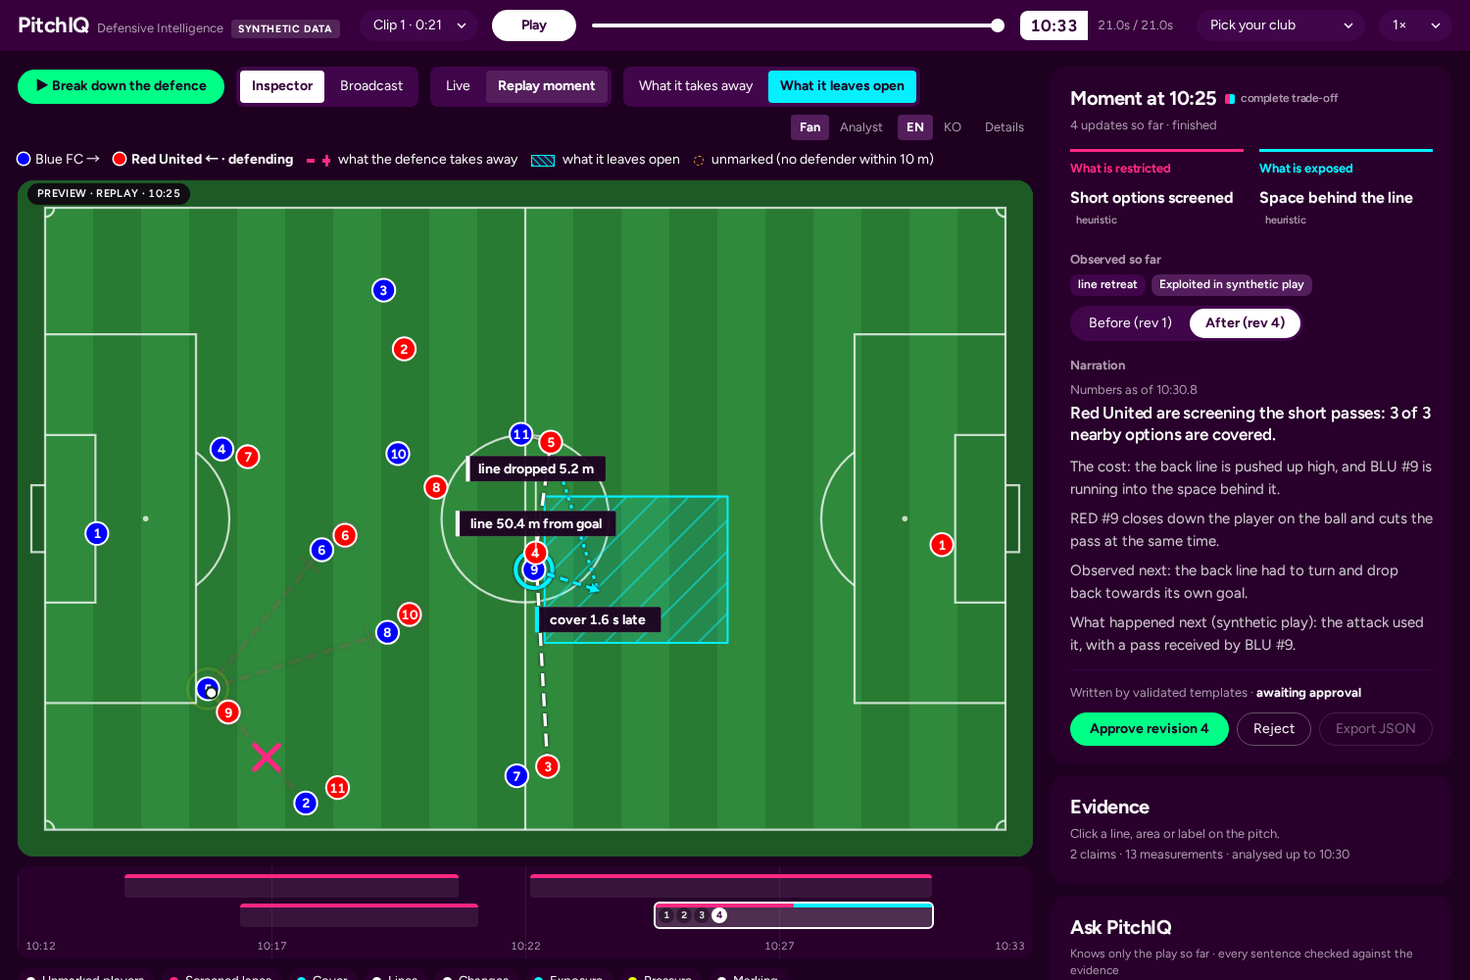
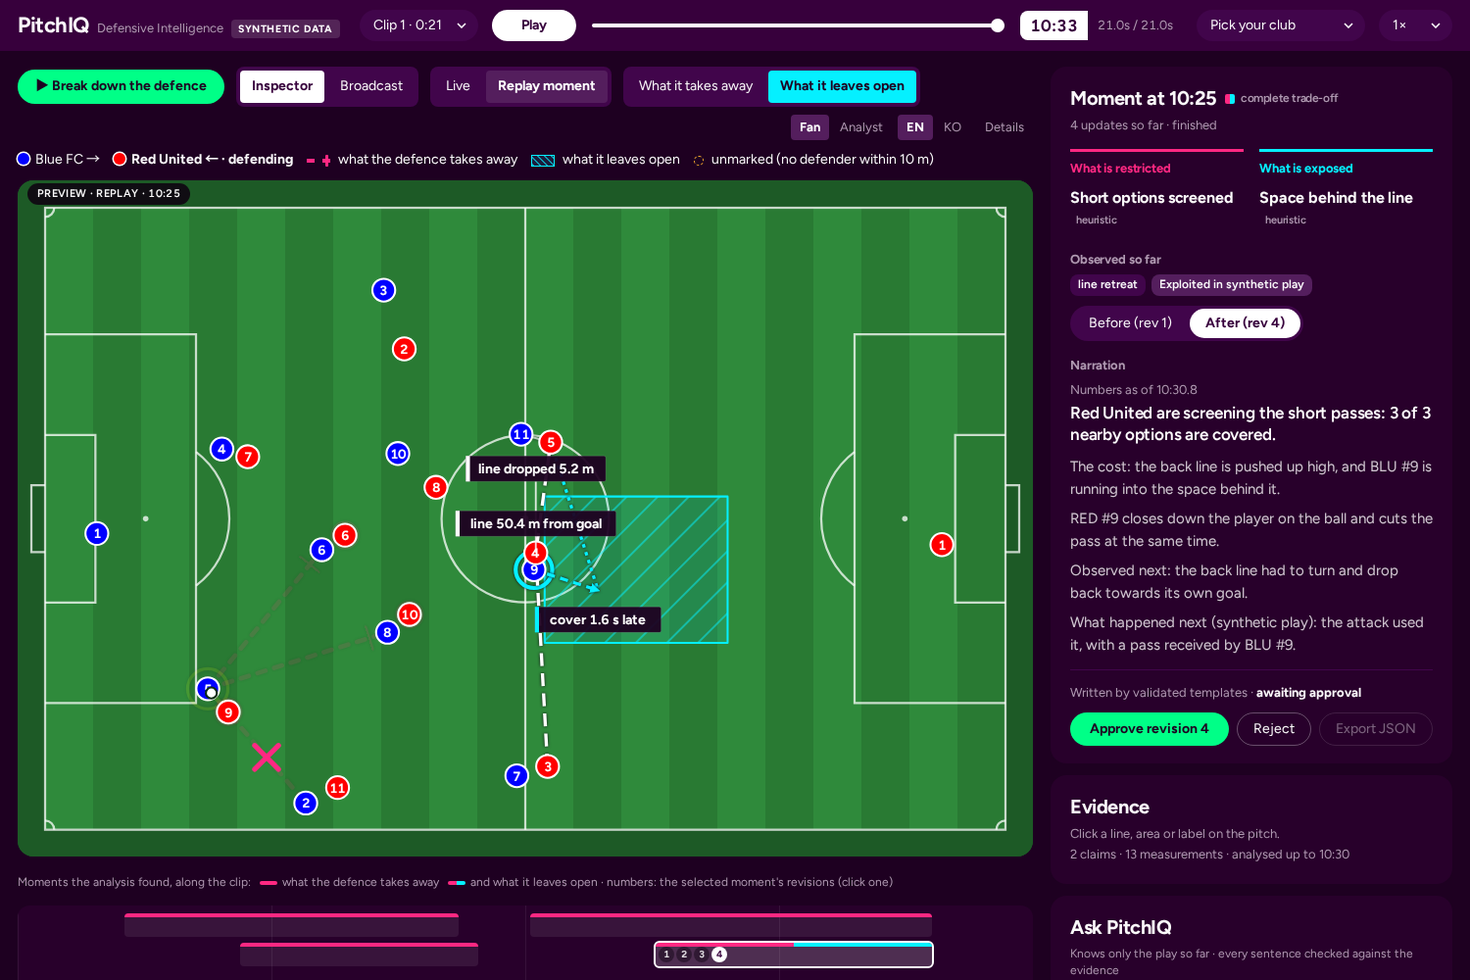
Breakdown step 2 draws a longer pass that is on (clip 1: BLU #5 to BLU #4, RED #7 only presses him); a key for the timeline

Changed region(s): [[0.0307, 0.868, 0.644, 1.0]]

diff --git a/frontend/src/App.tsx b/frontend/src/App.tsx
@@ -126,7 +126,9 @@ const BD_UI: Record<Lang, Record<string, string>> = {
         unmarked: "Also left unmarked: {p}.", unmarked_partial: "Left unmarked: {p}.",
         block: "{d} blocks the pass to {r}", block_many: "{d} blocks the passes to {r}", reach: "{d} can still get to the pass to {r}",
         block_pl: "{d} block the pass to {r}", block_pl_many: "{d} block the passes to {r}",
-        open_pass: "Not blocked: the pass to {r}.", open_passes: "Not blocked: the passes to {r}.", own_third: "In their own third they have {d} against {a}: the dangerous space is filled.",
+        open_pass: "Not blocked: the pass to {r}.", open_passes: "Not blocked: the passes to {r}.",
+        long_pass: "The longer pass to {r} is on: {d} can only press him as it arrives.", long_pass_free: "The longer pass to {r} is on.",
+        long_key: "Green arrow: a longer pass that is still on", own_third: "In their own third they have {d} against {a}: the dangerous space is filled.",
         forward: "{p}, furthest forward, has {n} defenders within 10 m.", and: " and ",
         other_run: "{r} is running in behind too: {c} goes with him.", other_run_late: "{r} is running in behind too, and nobody gets there in time." },
   ko: { intro: "이 수비는 무엇을 막고, 그 대가로 무엇을 내줄까?", go: "수비 전술 해부",
@@ -149,7 +151,9 @@ const BD_UI: Record<Lang, Record<string, string>> = {
         unmarked: "그 밖에 마크 없이 남은 선수: {p}.", unmarked_partial: "마크 없이 남은 선수: {p}.",
         block: "{d}: {r}로 가는 패스를 막음", block_many: "{d}: {r}로 가는 패스를 막음", reach: "{d}: {r}로 가는 패스에 닿을 수 있음",
         block_pl: "{d}: {r}로 가는 패스를 막음", block_pl_many: "{d}: {r}로 가는 패스를 막음",
-        open_pass: "막히지 않은 패스: {r}.", open_passes: "막히지 않은 패스: {r}.", own_third: "자기 진영 3분의 1 안에서 {d} 대 {a}: 위험한 공간이 채워져 있습니다.",
+        open_pass: "막히지 않은 패스: {r}.", open_passes: "막히지 않은 패스: {r}.",
+        long_pass: "{r}에게 가는 긴 패스는 열려 있습니다. 공이 도착하면 {d} 선수가 압박할 뿐입니다.", long_pass_free: "{r}에게 가는 긴 패스는 열려 있습니다.",
+        long_key: "초록 화살표: 아직 열려 있는 긴 패스", own_third: "자기 진영 3분의 1 안에서 {d} 대 {a}: 위험한 공간이 채워져 있습니다.",
         forward: "가장 앞선 {p} 주위 10 m 안에 수비 {n}명.", and: ", ",
         other_run: "{r} 선수도 뒷공간으로 뜁니다. {c} 선수가 따라갑니다.", other_run_late: "{r} 선수도 뒷공간으로 뛰고, 제때 따라가는 수비가 없습니다." },
 };
@@ -589,7 +593,11 @@ export function App() {
   const claimLabel = (c: string) => <>{CLAIM_TEXT[c]}{heuristicCodes.has(c) && <> <small>heuristic</small></>}</>;
   const highlight = useMemo(() => {
     const s = new Set<string>();
-    if (bdCur) { for (const p of [...bdCur.player_ids, ...(bdCur.marks ?? []).flat()]) s.add(p); return s; }
+    if (bdCur) {
+      for (const p of [...bdCur.player_ids, ...(bdCur.marks ?? []).flat(),
+        ...(bdCur.long_passes ?? []).flatMap((lp) => [lp.receiver_id, ...lp.pressed_by])]) s.add(p);
+      return s;
+    }
     if (selEl) for (const cid of selEl.claim_ids) for (const p of claimById[cid]?.player_ids ?? []) s.add(p);
     return s;
   }, [selEl, claimById, bdCur]);
@@ -750,6 +758,7 @@ export function App() {
               : shownFrame && <GlidingPitch glideMs={1000 / (5 * speed)} glide={playing && !replayMode && !bd}
                   frame={shownFrame} overlay={overlaySnap} labels={overlay?.label_text} hiddenLayers={shownHidden}
                   ballPath={bdCur?.key === "what_happened" ? bdCur.ball_path : undefined} tags={bdTags} marks={bdCur?.marks}
+                  passTo={bdCur?.key === "takes_away" ? bdCur.long_passes?.map((lp) => lp.receiver_id) : undefined}
                   freeIds={bdCur?.key === "leaves_open" ? bdCur.unmarked : undefined}
                   attackDir={(id) => teams.find((tm: any) => tm.team_id === id)?.attack_direction ?? 1}
                   selected={surface === "inspector_preview" ? selEl?.element_id : undefined}
@@ -763,6 +772,8 @@ export function App() {
             <div className="caption">{overlay.on_air.map((t, i) => <p key={i}>{t}</p>)}</div>}
           {surface === "broadcast" && approvedRev !== null && insight && insight.insight.revision !== approvedRev &&
             <p className="air-note">On air: approved revision {approvedRev}. Revision {insight.insight.revision} is newer and waits for approval in Inspector.</p>}
+          {!bd && <p className="tl-key">Moments the analysis found, along the clip:<i className="tl-sw" />what the defence
+            takes away<i className="tl-sw both" />and what it leaves open · numbers: the selected moment&apos;s revisions (click one)</p>}
           {!bd && <Timeline episodes={onlyFollowed && followed ? episodes.filter((e) => e.player_ids?.includes(followed)) : episodes}
             empty={onlyFollowed && followed ? `No moments involving #${jersey(followed)} yet` : "No moments yet"}
             myClub={myClub} t0={t0} t1={t1} clock={clock} selected={selEp} selRev={selRev}
@@ -884,6 +895,8 @@ function BreakdownPanel({ bd, step, lang, keys, texts, insight, approvedRev, sur
     })(),
     (cur?.open_passes ?? []).length > 0 && (cur!.open_passes!.length > 1 ? ui.open_passes : ui.open_pass)
       .replace("{r}", cur!.open_passes!.map(playerName).join(ui.and)),
+    ...(cur?.long_passes ?? []).map((p) => (p.pressed_by.length ? ui.long_pass : ui.long_pass_free)
+      .replace("{r}", playerName(p.receiver_id)).replace("{d}", p.pressed_by.map(playerName).join(ui.and))),
     cur?.own_third && ui.own_third.replace("{d}", String(cur.own_third.defenders)).replace("{a}", String(cur.own_third.attackers)),
     cur?.own_third && cur.own_third.near_forward >= 2 && ui.forward.replace("{p}", playerName(cur.own_third.forward_id))
       .replace("{n}", String(cur.own_third.near_forward)),
@@ -913,9 +926,10 @@ function BreakdownPanel({ bd, step, lang, keys, texts, insight, approvedRev, sur
           h.player_id.includes("_") ? playerName(h.player_id) : "")}</p>)}
         {!cur && latestRev != null && asOf != null && <p className="meta">{ui.onairNote.replace("{rev}", String(latestRev))
           .replace("{t}", matchClockTenths(asOf))}</p>}
-        {(keys.length > 0 || (cur?.ball_path?.length ?? 0) > 1 || !!cur?.marks?.length) && <ul className="bd-key">
+        {(keys.length > 0 || (cur?.ball_path?.length ?? 0) > 1 || !!cur?.marks?.length || !!cur?.long_passes?.length) && <ul className="bd-key">
           {cur?.key === "what_happened" && (cur.ball_path?.length ?? 0) > 1 && <li><i className="sw ball_path" />{ui.ball}</li>}
           {!!cur?.marks?.length && <li><i className="sw bd_mark" />{ui.marks}</li>}
+          {!!cur?.long_passes?.length && <li><i className="sw lane_open" />{ui.long_key}</li>}
           {keys.map((k) => <li key={k}><i className={`sw ${k}`} />{BD_KEY[k][lang]}</li>)}
         </ul>}
         {!cur && !insight && <p className="meta">{ui.waiting}</p>}

diff --git a/frontend/src/Pitch.tsx b/frontend/src/Pitch.tsx
@@ -23,6 +23,7 @@ type Props = {
   ballPath?: number[][];  // where the ball went (world metres), drawn as a white arrow
   tags?: Record<string, { text: string; role: string }>;  // a tag over the players a step is about (presser, runner...)
   marks?: string[][];  // [defender, attacker]: who follows whom, drawn as a white tether
+  passTo?: string[];  // receivers of longer passes that are on (breakdown step 2), drawn from the ball as green arrows
 };
 // An unmarked player: an outfield player of the team on the ball with real room, no opponent within FREE_M, and no
 // defender following him (a marking pair the analysis drew). Measured on the frame drawn, with hysteresis: a player
@@ -162,7 +163,7 @@ function Element({ el, pos, label, place, selected, onSelect }: {
 }
 
 export function Pitch({ frame, overlay, labels = {}, hiddenLayers, selected, onSelect, highlight, teamColor, jersey, followed, onPlayer,
-  quietLabels, ballPath, tags, marks, showFree, freeIds, attackDir }: Props) {
+  quietLabels, ballPath, tags, marks, passTo, showFree, freeIds, attackDir }: Props) {
   const pos: Record<string, XY> = {};
   for (const p of frame.players) pos[p.player_id] = p.position;
   const els = (overlay?.elements ?? []).filter((e) => !hiddenLayers.has(e.layer));
@@ -249,6 +250,13 @@ export function Pitch({ frame, overlay, labels = {}, hiddenLayers, selected, onS
       {marks?.map(([d, a]) => {
         const p = pos[d], q = pos[a];
         return p && q ? <line key={`mk-${d}-${a}`} className="bd-mark" x1={sx(p)} y1={sy(p)} x2={sx(q)} y2={sy(q)} /> : null;
+      })}
+      {passTo?.map((r) => {  // the arrow stops at the receiver's disc
+        const q = pos[r];
+        if (!q) return null;
+        const dx = sx(q) - sx(ball), dy = sy(q) - sy(ball), k = Math.max(1 - (PLAYER_R + 0.4) / (Math.hypot(dx, dy) || 1), 0);
+        return <line key={`lp-${r}`} className="lane_open bd-pass" x1={sx(ball)} y1={sy(ball)} x2={sx(ball) + dx * k}
+          y2={sy(ball) + dy * k} markerEnd="url(#arrow-lane_open)" />;
       })}
       {receiver && receiveAt && <g className="receive-g">
         <line className="receiver-run" x1={sx(receiver.position)} y1={sy(receiver.position)} x2={receiveAt[0]} y2={68 - receiveAt[1]} />

diff --git a/frontend/src/styles.css b/frontend/src/styles.css
@@ -225,6 +225,10 @@ g.ov.sel .label-bg { stroke: #fff; stroke-width: 0.15; }
 .rev { height: 16px; min-width: 16px; padding: 0 4px; font-size: 10px; font-weight: 700; border: 0; border-radius: 999px;
   background: rgba(14, 0, 16, 0.45); color: rgba(255, 255, 255, 0.85); }
 .rev.on { background: #fff; color: var(--panel-2); }
+.tl-key { margin: 8px 0 4px; font-size: 12px; color: var(--muted); }
+.tl-sw { display: inline-block; width: 18px; height: 4px; border-radius: 2px; vertical-align: middle; margin: 0 5px 0 9px;
+  background: var(--pink); }
+.tl-sw.both { background: linear-gradient(90deg, var(--pink) 0 50%, var(--cyan) 50% 100%); }
 .now { position: absolute; top: 0; bottom: 0; width: 2px; background: #fff; }
 .now::before { content: ""; position: absolute; top: 0; left: -4px; border: 5px solid transparent; border-top-color: #fff; border-bottom: 0; }
 
@@ -356,6 +360,7 @@ button.primary { background: #fff; color: var(--panel-2); border: 0; font-weight
 .ball-path-start { fill: #fff; }
 .arrowhead.ball_path { fill: #fff; }
 .bd-mark { stroke: rgba(255, 255, 255, 0.38); stroke-width: 3.6; stroke-linecap: round; }  /* a band around each marking pair */
+.bd-pass { stroke-width: 0.5; }  /* a longer pass that is on (step 2) */
 .sw.bd_mark { border-top: 7px solid rgba(255, 255, 255, 0.5); border-radius: 4px; }
 
 /* the ball's receiver: where he takes it, and his run there */

diff --git a/frontend/src/api.ts b/frontend/src/api.ts
@@ -105,7 +105,8 @@ export type BreakdownStep = {
   // the press, when the narration has no sentence about it: who has the ball and the nearest defender (measured)
   press_facts?: { carrier_id: string; defender_id: string; distance_m: number } | null;
   unmarked?: string[]; blocks?: { defender_ids: string[]; receiver_id: string; status: "screened" | "reachable" }[];
-  open_passes?: string[]; own_third?: { defenders: number; attackers: number; forward_id: string; near_forward: number } | null;  // what it leaves open: the attacking team's unmarked players on the step's frame (measured)
+  open_passes?: string[]; long_passes?: { receiver_id: string; length_m: number; pressed_by: string[] }[];  // longer passes that are on, with the defenders pressing the receiver
+  own_third?: { defenders: number; attackers: number; forward_id: string; near_forward: number } | null;  // what it leaves open: the attacking team's unmarked players on the step's frame (measured)
   other_runs?: { runner_id: string; cover_id: string | null; in_time: boolean }[];  // other runs in behind (cover timed)
 };
 export type Breakdown = { episode_id: string; analysis_status: string; outcome: string; language: string; steps: BreakdownStep[] };

diff --git a/backend/app/replay/breakdown.py b/backend/app/replay/breakdown.py
@@ -15,7 +15,10 @@ model, and a step that the analysis has not reached yet says so instead of guess
 
 from __future__ import annotations
 
+import numpy as np
+
 from ..agents.fallback import analyst_plan, producer_plan
+from ..analytics.config import load_config
 from ..contracts import EvidencePacket
 from ..narrative.render import render_sentence
 from ..overlay.builder import key_state
@@ -44,6 +47,10 @@ UNMARKED_M, UNMARKED_REACH_M, UNMARKED_MAX = 10.0, 60.0, 6
 # attacker nobody has, within LOOSE_MARK_M (a zonal player standing with his man)
 LOOSE_MARK_M = 8.0
 OWN_THIRD_M = 35.0  # the defending team's own third, for the numbers in step 2
+# step 2's longer passes (the lane model's short options stop at lanes.max_length_m): a forward or square pass of up to
+# LONG_PASS_MAX_M is on when no defender gets to it; a defender within PRESSES_RECEIVER_M of the receiver and level with
+# him (at most LEVEL_M nearer the ball along the pass) presses him as he takes it, he does not block the pass
+LONG_PASS_MAX_M, PRESSES_RECEIVER_M, LEVEL_M = 35.0, 5.0, 2.5
 
 
 def _sentences(pk: EvidencePacket, language: str, clip: Clip, audience: str = "fan") -> list[tuple[str, str | None, str]]:
@@ -240,6 +247,46 @@ def _blocks(pk: EvidencePacket) -> dict:
     return {"blocks": blocks, "open_passes": [ln.receiver_id for ln in state.lanes if ln.availability == "open"]}
 
 
+def _long_passes(clip: Clip, pk: EvidencePacket) -> list[dict]:
+    """Step 2's longer passes from the man on the ball that are on (at most two, shortest first), each with the
+    defenders pressing its receiver. The lane model's kinematics (ball and defender speed, reaction, open margin) for
+    every other defender, on the step's frame, onside receivers only. From positions; no claim reads it."""
+    c = load_config().lanes
+    frame = _frame_of(clip, pk)
+    defending = pk.episode.defending_team_id
+    carrier = next((p for p in frame.players if p.player_id == frame.ball.owner_id), None)
+    if carrier is None or carrier.team_id == defending:
+        return []
+    a = clip.meta.attack_direction(carrier.team_id)
+    fwd = lambda p: p.position.x_m if a == 1 else 105.0 - p.position.x_m  # noqa: E731
+    xy = lambda p: np.array([p.position.x_m, p.position.y_m])  # noqa: E731
+    defs = [p for p in frame.players if p.team_id == defending]
+    d_xy = np.array([xy(p) for p in defs])
+    offside = sorted((fwd(p) for p in defs), reverse=True)[1] if len(defs) > 1 else 105.0
+    short = {ln.receiver_id for ln in key_state(pk).lanes}
+    ball = np.array([frame.ball.position.x_m, frame.ball.position.y_m])
+    out = []
+    for r in frame.players:
+        if (r.team_id != carrier.team_id or r.is_goalkeeper or r.player_id in (carrier.player_id, *short)
+                or fwd(r) < fwd(carrier) - c.max_backward_m or fwd(r) > max(offside, fwd(carrier)) + c.offside_tolerance_m):
+            continue
+        seg = xy(r) - ball
+        L = float(np.linalg.norm(seg))
+        if not c.max_length_m < L <= LONG_PASS_MAX_M:
+            continue
+        to_r = np.linalg.norm(d_xy - xy(r), axis=1)
+        presses = (to_r <= PRESSES_RECEIVER_M) & ((d_xy - ball) @ (seg / L) >= L - LEVEL_M)
+        s = np.arange(c.end_exclusion_m, L - c.end_exclusion_m + 1e-9, c.sample_step_m)
+        q = ball + np.outer(s / L, seg)
+        margin = c.reaction_s + np.linalg.norm(d_xy[~presses, None, :] - q[None, :, :], axis=-1) / c.defender_speed_mps \
+            - (s / c.ball_speed_mps)[None, :]
+        if margin.size and margin.min() < c.open_margin_s:
+            continue
+        out.append({"receiver_id": r.player_id, "length_m": round(L, 1),
+                    "pressed_by": [defs[i].player_id for i in np.argsort(to_r) if presses[i]][:2]})
+    return sorted(out, key=lambda x: x["length_m"])[:2]
+
+
 def _own_third(clip: Clip, pk: EvidencePacket) -> dict | None:
     """Numbers in the defending team's own third (outfield players), and the attacker furthest forward with the
     defenders within 10 m of him, when the defence fills that third (at least two more)."""
@@ -314,7 +361,7 @@ def breakdown(revs: list[EvidencePacket], clip: Clip, language: str, now_s: floa
                        [p for c in restricted for p in c.player_ids],
                        [t for k, cid, t in sents if cid in r_press.episode.restricted_claim_ids
                         and not any(m in k for m in PRESS_TEMPLATES)], **_blocks(r_press),
-                       own_third=_own_third(clip, r_press)))
+                       long_passes=_long_passes(clip, r_press), own_third=_own_third(clip, r_press)))
 
     # 3. what it leaves open (or that nothing open is supported yet)
     if r_open is not None:

diff --git a/backend/tests/test_v2_narrative_api.py b/backend/tests/test_v2_narrative_api.py
@@ -532,6 +532,8 @@ def test_the_breakdown_tells_the_moment_in_four_steps_from_the_evidence(client):
     assert any(b["receiver_id"] == "blue_02" and b["defender_ids"][0] == "red_09" and b["status"] == "screened"
                for b in takes["blocks"])
     assert "short passes" in takes["sentences"][0] and "screened_lanes" in takes["layers"]
+    # a longer pass that is on (display only): the square pass to BLU #4, with RED #7 only pressing him as he takes it
+    assert [(p["receiver_id"], p["pressed_by"]) for p in takes["long_passes"]] == [("blue_04", ["red_07"])]
     assert "exposure" in opens["layers"] and "BLU #9" in opens["sentences"][0] and opens["roles"]["blue_09"] == "runner"
     assert happened["revision"] > opens["revision"] and "received by BLU #9" in happened["sentences"][-1]
     assert happened["roles"] == {"blue_05": "passer", "blue_09": "receiver"}

diff --git a/evaluation/walkthrough/sweep.py b/evaluation/walkthrough/sweep.py
@@ -18,7 +18,7 @@ from playwright.sync_api import sync_playwright
 
 ROOT = Path(__file__).resolve().parents[2]
 OUT = Path(sys.argv[1])
-BASE = sys.argv[2].rstrip("/") if len(sys.argv) > 2 else None
+BASE = (sys.argv[2].rstrip("/") or None) if len(sys.argv) > 2 else None  # "" = start a local offline server
 CLIPS = sys.argv[3].split(",") if len(sys.argv) > 3 else [f"clip_{i:03d}" for i in (1, 2, 3, 4, 5, 6, 8, 9)]  # the clips the desk offers
 OUT.mkdir(parents=True, exist_ok=True)
 

diff --git a/README.md b/README.md
@@ -73,7 +73,7 @@ Most controls have tests, named in the table (all in `backend/tests/`).
 | **Ingest** | Replays tracking for 22 players and the ball at 5 Hz, with timestamped events, as a stream. An event reaches the analysis only after its `available_at_s` time. Every frame is validated against typed contracts (schema 2.0). | `backend/app/contracts/`, `backend/app/replay/` |
 | **Interpret** | Code analyses a trailing window: phase, defensive lines (it abstains when unsure), man-oriented marking, pressure, ground-pass lane access with approximate offside, cover arrival including the goalkeeper, and central player counts. The results become trade-off episodes that keep restricted and exposed claims apart. The attack's response, the defence's adjustment and the outcome are added as new revisions. | `backend/app/analytics/` |
 | **Explain** | The Analyst and Producer agents choose which claims to tell, in what order, with which caveats, and which validated sentences each audience gets. Ask PitchIQ answers viewer questions. Code fills in every number from the evidence packet. | `backend/app/agents/`, `backend/app/narrative/` |
-| **Render** | SVG overlays on the pitch: screened lanes, exposure zones, cover timing, line height, local player counts and pressure. Each element links to its players, frames and metrics. Also: Before/After views, an episode timeline, a broadcast view with a caption bar, and JSON export of an approved moment. **Break down the defence** walks through one moment in four steps (the press and who follows whom, what it takes away, what it leaves open, what happened, with the ball's path from the frames), each on the revision that first had it (what it takes away and what it leaves open on the same moment when the restriction still holds then), then puts it on air after approval. When the analysis recorded no outcome, the last step shows the next pass or shot the replay saw (received, intercepted or stopped) as an observation, or says that the clip ends first. A press step without a sentence about the press gives the player on the ball and the nearest defender, measured on its frame. Its sentences are the code-rendered ones; no model writes them. The pitch rings the unmarked players of the team on the ball (no defender within 10 m and none following him; the six with the most room within 60 m of the ball), and the "what it leaves open" step lists them; on air, the sentences name players and movements but no distances (the numbers stay in the analyst view and the pitch labels). It glides between the 5 Hz frames while playing. | `backend/app/overlay/`, `backend/app/replay/breakdown.py`, `frontend/src/` |
+| **Render** | SVG overlays on the pitch: screened lanes, exposure zones, cover timing, line height, local player counts and pressure. Each element links to its players, frames and metrics. Also: Before/After views, an episode timeline, a broadcast view with a caption bar, and JSON export of an approved moment. **Break down the defence** walks through one moment in four steps (the press and who follows whom, what it takes away, what it leaves open, what happened, with the ball's path from the frames), each on the revision that first had it (what it takes away and what it leaves open on the same moment when the restriction still holds then), then puts it on air after approval. When the analysis recorded no outcome, the last step shows the next pass or shot the replay saw (received, intercepted or stopped) as an observation, or says that the clip ends first. A press step without a sentence about the press gives the player on the ball and the nearest defender, measured on its frame. Step 2 also draws a longer pass (over the 25 m of a short option, up to 35 m) that is still on as a green arrow, naming the defender who can only press its receiver as it arrives (display only; no claim uses it). Its sentences are the code-rendered ones; no model writes them. The pitch rings the unmarked players of the team on the ball (no defender within 10 m and none following him; the six with the most room within 60 m of the ball), and the "what it leaves open" step lists them; on air, the sentences name players and movements but no distances (the numbers stay in the analyst view and the pitch labels). It glides between the 5 Hz frames while playing. | `backend/app/overlay/`, `backend/app/replay/breakdown.py`, `frontend/src/` |
 | **Personalize** | Fan or Analyst depth, in English or Korean, built from the same evidence (four validated variants per insight). **My club** marks every moment as your club defending or attacking. **Follow a player**: click any player for a ring and their measured speed (a sprint at 7 m/s or more) and filter the timeline to the moments whose evidence names them. Choices stay in the browser. | `frontend/src/App.tsx`, `frontend/src/Pitch.tsx`, `backend/app/narrative/registry.py` |
 
 Who does what:

diff --git a/docs/evaluation.md b/docs/evaluation.md
@@ -461,3 +461,16 @@ Checks on this build (offline): `make test` 278 passed, 4 expected failures; bro
 checks of clips 7, 10, 11 and 12 and of switching moments in the breakdown were removed with them); feature sweep of
 the 8 clips, one breakdown moment each, no page errors or failed actions, players move at most 0.14 m per animation
 frame.
+
+## A longer pass that is on, and a key for the timeline (2026-10-27)
+
+From the project lead's review of clip 1 at 10:25: BLU #5 can play the square pass to BLU #4. RED #7 stands 3 m off
+BLU #4 and only presses him as he takes it; he does not block the pass. The lane model's short options stop at 25 m,
+and the pass is 26.7 m, so the analysis never listed it. Step 2 of the breakdown now also draws, as a green arrow, a
+forward or square pass of 25-35 m to an onside team-mate that no defender gets to with the lane model's kinematics,
+leaving out a defender within 5 m of the receiver and level with him (he presses the receiver). At most two, with the
+defenders pressing the receiver named. Display only: no claim, metric or holdout number reads it. Over the 8 clips the
+desk offers, it adds clip 1's pass to BLU #4 (RED #7 presses him) and clip 2's pass to BLU #2 (RED #11).
+
+The timeline under the pitch now has a key: each bar is a moment the analysis found (pink: what the defence takes
+away; pink and cyan: what it also leaves open), and the numbers are the selected moment's revisions.
